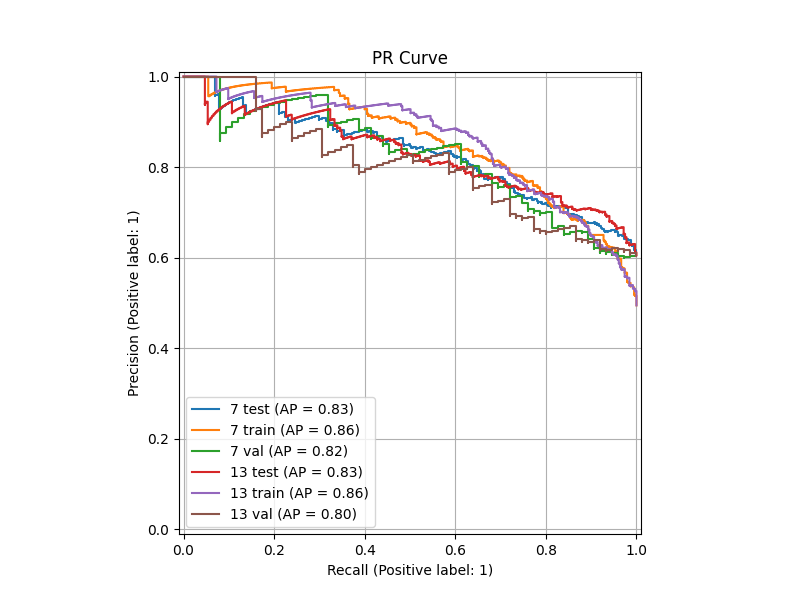
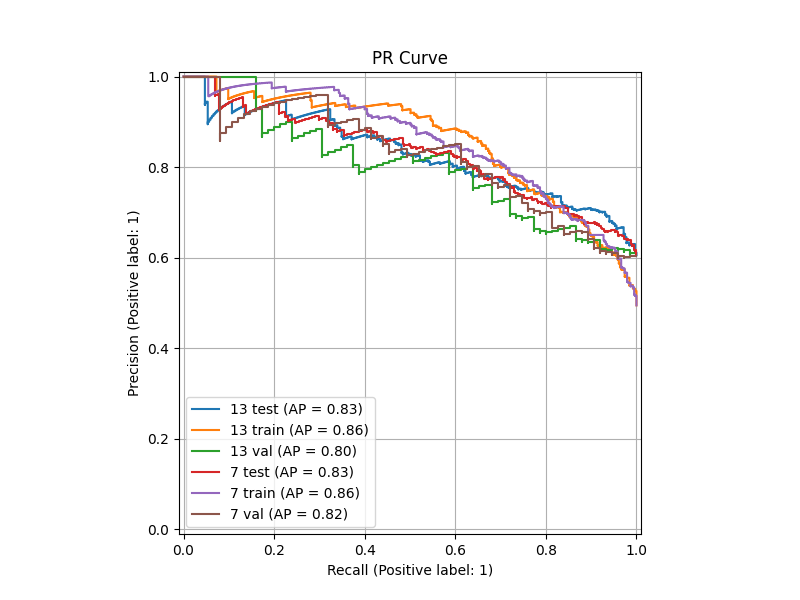
add ligthgbm

diff --git a/src/text_exp_ml.py b/src/text_exp_ml.py
@@ -1,6 +1,8 @@
 import pandas as pd
 
 from catboost import CatBoostClassifier
+import lightgbm as lgb
+
 from sklearn.feature_extraction.text import TfidfVectorizer, CountVectorizer
 from sklearn.pipeline import Pipeline
 from sklearn.preprocessing import FunctionTransformer
@@ -395,10 +397,33 @@ save_experiment_predictions(root_folder="data/experiments/exp_1/",
 
 # %%
 
+
+pipeline_15 = Pipeline([
+    ('tfidf', TfidfVectorizer(
+        ngram_range=(1, 3),
+        max_features=1000,
+    )),
+    ('catboost', lgb.LGBMClassifier(**{
+        'max_iter': 100,
+        'objective': 'binary',
+        'boosting_type': 'gbdt',
+        'learning_rate': 0.05,
+        'metric': 'binary_logloss'})),
+])
+
+pipeline_15.fit(train_df['text'], train_df['label'])
+
+save_experiment_predictions(root_folder="data/experiments/exp_1/",
+                            name='15',
+                            pipe=pipeline_15,
+                            datasets=list_datasets,
+                            )
+ 
+
 results, results_mean = calc_scores(root_folder="data/experiments/exp_1/",
                                     plot_names=['13', '7'])
 
-top_names = results_mean.head(5).index.tolist()
+top_names = results_mean.head(10).index.tolist()
 print(results_mean.to_markdown(tablefmt="github"))
 print(results[results['name'].isin(top_names)].to_markdown(tablefmt="github"))
 

diff --git a/README_SYSOEV.md b/README_SYSOEV.md
@@ -1,5 +1,12 @@
 # README LOG
 
+## 2026-03-08 Лучшие модели
+
+2. text_exp_ml - 13 модель TF-IDF + LogReg 
+3. text_exp_ml - 1 модель TF-IDF + CatBoost
+6. 
+
+
 ## 2026-02-21 Эксперименты с классическими моделями построенными на video-to-text данных
 
 - Код экспериментов `./src/text_exp_ml_video.py` 
